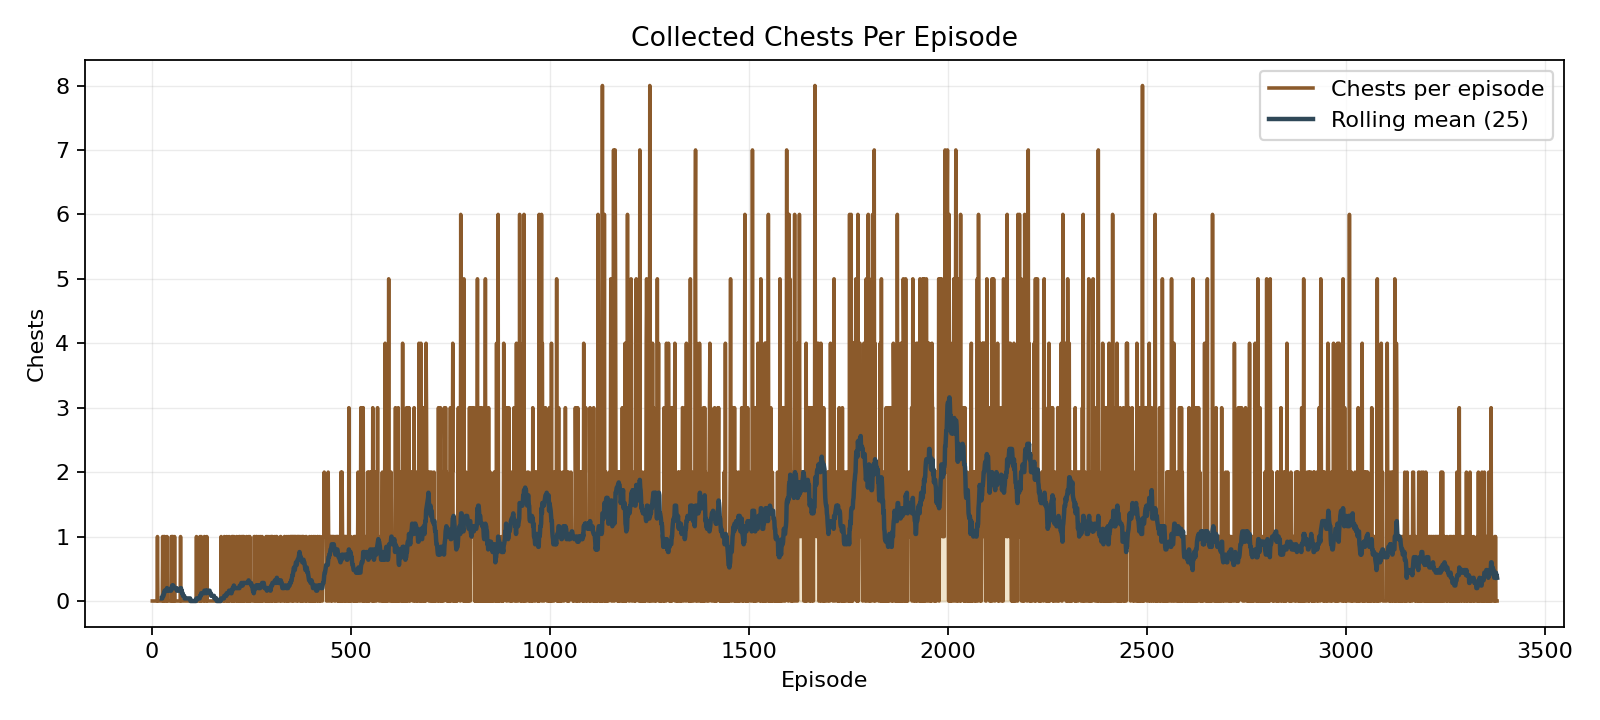
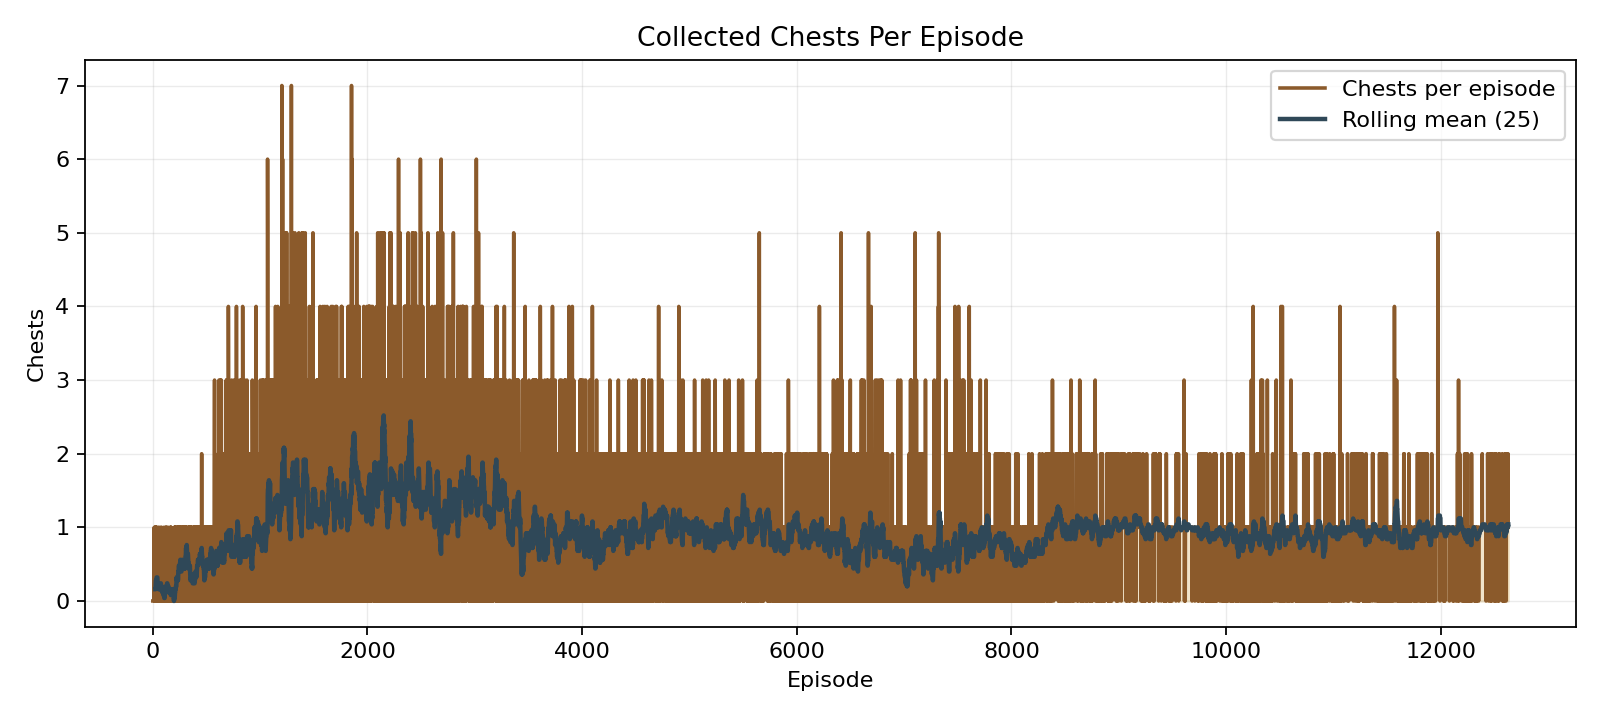
Normalize big units and block damage from support units

diff --git a/Big_map/grid.py b/Big_map/grid.py
@@ -14,6 +14,7 @@ from __future__ import annotations
 
 from collections import deque
 from typing import Dict, Optional, Tuple
+from data_dicts_compact_lines import DATA
 
 DEFAULT_GRID_SIZE = 48
 DEFAULT_HERO_GRID_POSITION: Tuple[int, int] = (5, 27)
@@ -234,6 +235,138 @@ CHEST_COUNT = len(BASE_STATIC_CHESTS)
 # Base campaign layout mirrors the 48x48 scenario coordinates directly.
 BASE_GRID_SIZE = DEFAULT_GRID_SIZE
 BASE_ENEMY_POSITIONS: Dict[int, Tuple[int, int]] = {}
+
+_UNIT_NAME_ALIASES: Dict[str, str] = {
+    "Выверна": "Виверна",
+    "Гоблин-лучник": "Гоблин лучник",
+    "Зеленый дракон": "Зелёный дракон",
+    "Зелёный дракон": "Зелёный дракон",
+    "Дракон Рока": "Дракон рока",
+    "Лорд Тьмы": "Лорд тьмы",
+}
+
+
+def _canonical_enemy_name(name: str) -> str:
+    raw = str(name or "").strip()
+    return _UNIT_NAME_ALIASES.get(raw, raw)
+
+
+def _build_big_unit_names() -> frozenset[str]:
+    names: set[str] = set()
+    for entry in DATA:
+        if not isinstance(entry, dict):
+            continue
+        entry_name = entry.get("\u043a\u0442\u043e")
+        if entry_name is None:
+            entry_name = entry.get("\u0420\u0454\u0421\u201a\u0420\u0455")
+        if not entry_name:
+            continue
+        try:
+            size = int(entry.get("\u0440\u0430\u0437\u043c\u0435\u0440", 0) or 0)
+        except (TypeError, ValueError):
+            size = 0
+        if size != 1:
+            continue
+        name = str(entry_name).strip()
+        if not name:
+            continue
+        names.add(name)
+        names.add(_canonical_enemy_name(name))
+    return frozenset(names)
+
+
+BIG_UNIT_NAMES = _build_big_unit_names()
+
+
+def _is_big_enemy_unit(name: str | None) -> bool:
+    if not name:
+        return False
+    return _canonical_enemy_name(str(name)) in BIG_UNIT_NAMES
+
+
+def _normalize_big_unit_rows(
+    front: list[str | None],
+    back: list[str | None],
+) -> Tuple[list[str | None], list[str | None]]:
+    if len(front) != 3 or len(back) != 3:
+        return list(front), list(back)
+
+    original_slots: list[tuple[str, int, str]] = []
+    for row_name, row_values in (("front", front), ("back", back)):
+        for col, name in enumerate(row_values):
+            if isinstance(name, str) and name:
+                original_slots.append((row_name, int(col), str(name)))
+
+    if not original_slots:
+        return list(front), list(back)
+
+    big_slots = [
+        (row_name, col, name)
+        for row_name, col, name in original_slots
+        if _is_big_enemy_unit(name)
+    ]
+    if not big_slots:
+        return list(front), list(back)
+
+    blocked_cols = [col for _, col, _ in big_slots]
+    if len(set(blocked_cols)) != len(blocked_cols):
+        return list(front), list(back)
+
+    result_front: list[str | None] = [None, None, None]
+    result_back: list[str | None] = [None, None, None]
+    blocked_col_set = set(blocked_cols)
+
+    for _, col, name in big_slots:
+        result_front[col] = name
+
+    displaced_units: list[tuple[str, int, str]] = []
+    for row_name, col, name in original_slots:
+        if _is_big_enemy_unit(name):
+            continue
+        target_row = result_front if row_name == "front" else result_back
+        if col not in blocked_col_set and target_row[col] is None:
+            target_row[col] = name
+            continue
+        displaced_units.append((row_name, col, name))
+
+    def _candidate_slots(preferred_row: str, original_col: int) -> list[tuple[str, int]]:
+        row_order = [preferred_row, "back" if preferred_row == "front" else "front"]
+        candidates: list[tuple[str, int]] = []
+        for row_name in row_order:
+            target_row = result_front if row_name == "front" else result_back
+            free_cols = [
+                col
+                for col in range(3)
+                if col not in blocked_col_set and target_row[col] is None
+            ]
+            free_cols.sort(key=lambda col: (abs(col - original_col), col))
+            candidates.extend((row_name, col) for col in free_cols)
+        return candidates
+
+    for preferred_row, original_col, name in displaced_units:
+        placed = False
+        for row_name, col in _candidate_slots(preferred_row, original_col):
+            target_row = result_front if row_name == "front" else result_back
+            if target_row[col] is None:
+                target_row[col] = name
+                placed = True
+                break
+        if not placed:
+            return list(front), list(back)
+
+    return result_front, result_back
+
+
+def _normalize_enemy_team_spec(spec: dict[str, object]) -> dict[str, object]:
+    front, back = _normalize_big_unit_rows(
+        list(spec["front"]),
+        list(spec["back"]),
+    )
+    return {
+        "description": str(spec["description"]),
+        "front": front,
+        "back": back,
+    }
 
 # Battle-ready template for the hero squad used in campaign battles.
 BLUE_TEAM_TEMPLATE = [
@@ -486,8 +619,8 @@ VILLAGE_LINKED_STACK_OVERRIDES: tuple[dict[str, object], ...] = (
         "enemy_id": 35,
         "position": (40, 25),
         "description": "Отряд Соругириллы: Унфегра (Королева личей), Виверна",
-        "front": [None, "Королева лич", None],
-        "back": [None, "Виверна", None],
+        "front": [None, "Виверна", None],
+        "back": ["Королева лич", None, None],
     },
 )
 
@@ -527,6 +660,7 @@ def _make_stack_override(
     label: Optional[str] = None,
 ) -> dict[str, object]:
     front, back = _pack_stack_units(units)
+    front, back = _normalize_big_unit_rows(front, back)
     composition = ", ".join(units) if units else "(empty)"
     return {
         "enemy_id": int(enemy_id),
@@ -669,6 +803,10 @@ ENEMY_TEAM_SPECS.update(
         for row in ALL_MAP_STACK_OVERRIDES
     }
 )
+ENEMY_TEAM_SPECS = {
+    enemy_id: _normalize_enemy_team_spec(spec)
+    for enemy_id, spec in ENEMY_TEAM_SPECS.items()
+}
 
 
 def clamp_grid_pos(pos: Tuple[int, int], grid_size: int) -> Tuple[int, int]:

diff --git a/Big_map/visualize_campaign.py b/Big_map/visualize_campaign.py
@@ -762,6 +762,9 @@ class CampaignVisualizer:
     COLOR_SETTLEMENT_CORNER_FILL = (1.0, 0.25, 0.62, 0.82)
     COLOR_SETTLEMENT_CORNER_EDGE = (0.58, 0.05, 0.30, 0.98)
     COLOR_RUIN_EDGE = (0.82, 0.05, 0.05, 0.98)
+    COLOR_GOLD_MINE_FILL = (0.96, 0.80, 0.16, 0.84)
+    COLOR_GOLD_MINE_EDGE = (0.56, 0.38, 0.02, 0.98)
+    COLOR_GOLD_MINE_TEXT = (0.34, 0.20, 0.00, 0.98)
     CASTLE_POS = DEFAULT_HERO_GRID_POSITION
 
     def __init__(
@@ -780,9 +783,11 @@ class CampaignVisualizer:
         self.capital_overlays: list[dict] = []
         self.village_overlays: list[dict] = []
         self.ruin_overlays: list[dict] = []
+        self.gold_mine_overlays: list[dict] = []
         self._load_background_image()
         self._load_settlement_overlays()
         self._load_ruin_overlays()
+        self._load_gold_mine_overlays()
 
         # Создаём фигуру
         self.fig, self.ax = plt.subplots(figsize=(10, 10))
@@ -1040,6 +1045,62 @@ class CampaignVisualizer:
             )
         self.ruin_overlays = sorted(overlays, key=lambda overlay: (overlay["y"], overlay["x"]))
 
+    def _load_gold_mine_overlays(self) -> None:
+        if not self.scenario_path or extract_render_objects is None:
+            return
+        try:
+            data = Path(self.scenario_path).read_bytes()
+            render_objects = extract_render_objects(data)
+        except Exception as exc:
+            print(f"[WARN] Failed to load gold mine overlays from {self.scenario_path}: {exc}")
+            return
+
+        overlays = []
+        spec = RENDER_OBJECT_SPECS.get("resource:0", {})
+        width, height = spec.get("footprint", (1, 1))
+        for gold_mine in render_objects.get("resource:0", []):
+            try:
+                x = int(gold_mine["x"])
+                y = int(gold_mine["y"])
+            except Exception:
+                continue
+            overlays.append(
+                {
+                    "x": x,
+                    "y": y,
+                    "width": int(width),
+                    "height": int(height),
+                }
+            )
+        self.gold_mine_overlays = sorted(overlays, key=lambda overlay: (overlay["y"], overlay["x"]))
+
+    def _draw_gold_mine_overlays(self) -> None:
+        for overlay in self.gold_mine_overlays:
+            x = int(overlay["x"])
+            y = int(overlay["y"])
+            draw_x, draw_y = self._display_tile(x, y)
+            gold_rect = patches.Rectangle(
+                (draw_x - 0.36, draw_y - 0.36),
+                0.72,
+                0.72,
+                facecolor=self.COLOR_GOLD_MINE_FILL,
+                edgecolor=self.COLOR_GOLD_MINE_EDGE,
+                linewidth=1.8,
+                zorder=2.72,
+            )
+            self.ax.add_patch(gold_rect)
+            self.ax.text(
+                draw_x,
+                draw_y,
+                "З",
+                ha="center",
+                va="center",
+                fontsize=9,
+                fontweight="bold",
+                color=self.COLOR_GOLD_MINE_TEXT,
+                zorder=2.8,
+            )
+
     def _draw_ruin_overlays(self) -> None:
         for overlay in self.ruin_overlays:
             x = int(overlay["x"])
@@ -1289,6 +1350,7 @@ class CampaignVisualizer:
                     alpha=0.7,
                 )
 
+        self._draw_gold_mine_overlays()
         self._draw_ruin_overlays()
 
         # Враги

diff --git a/Big_map/battle_env.py b/Big_map/battle_env.py
@@ -100,6 +100,25 @@ ATTACK_TYPES = [
     "Air",
 ]  # one-hot(9)
 
+ZERO_DAMAGE_NO_HP_UNIT_TYPES = frozenset(
+    {
+        "Ghost",
+        "Witch",
+        "Shadow",
+        "Incub",
+        "Succub",
+        "Summoner",
+        "Occultmaster",
+        "Laclaan",
+        "Baroness",
+        "Travnitsa",
+        "Novice",
+        "Alchemist",
+        "Dwarfdruid",
+        "Arhidruid",
+    }
+)
+
 FEATURES_PER_UNIT = 8 + len(TYPE_LIST) + 5 * len(ATTACK_TYPES) + 14 + 3
 OBSERVATION_SIZE = FEATURES_PER_UNIT * 12
 
@@ -2126,12 +2145,20 @@ class BattleEnv(gym.Env):
             if unit.get("original_damage", 0) > 0:
                 unit["damage"] = unit["original_damage"]
 
-    def _apply_damage_with_armor(self, base_dmg: float, victim: Dict) -> int:
+    def _apply_damage_with_armor(self, attacker: Dict, base_dmg: float, victim: Dict) -> int:
+        attacker_type = str(attacker.get("unit_type", "") or "")
+        if attacker_type in ZERO_DAMAGE_NO_HP_UNIT_TYPES:
+            return 0
+
+        raw_damage = float(base_dmg or 0)
+        if raw_damage <= 0:
+            return 0
+
         armor = float(victim.get("armor", 0) or 0)
         armor = min(armor, 90)  # Максимум 90% снижения урона
         factor = (1.0 - armor / 100.0) if armor > 0 else 1.0
         bonus = self.rng.randint(0, 5)
-        boosted = base_dmg + bonus
+        boosted = raw_damage + bonus
         eff = boosted * max(0.0, factor)
         return int(round(eff))
 
@@ -2531,7 +2558,7 @@ class BattleEnv(gym.Env):
                     continue
 
                 before = victim["health"]
-                dmg = self._apply_damage_with_armor(attacker["damage"], victim)
+                dmg = self._apply_damage_with_armor(attacker, attacker["damage"], victim)
                 victim["health"] -= dmg
                 after = victim["health"]
                 self._log(
@@ -2749,7 +2776,7 @@ class BattleEnv(gym.Env):
                 return True, "resilience_block"
 
             before = victim["health"]
-            dmg = self._apply_damage_with_armor(attacker["damage"], victim)
+            dmg = self._apply_damage_with_armor(attacker, attacker["damage"], victim)
             victim["health"] -= dmg
             after = victim["health"]
             self._log(